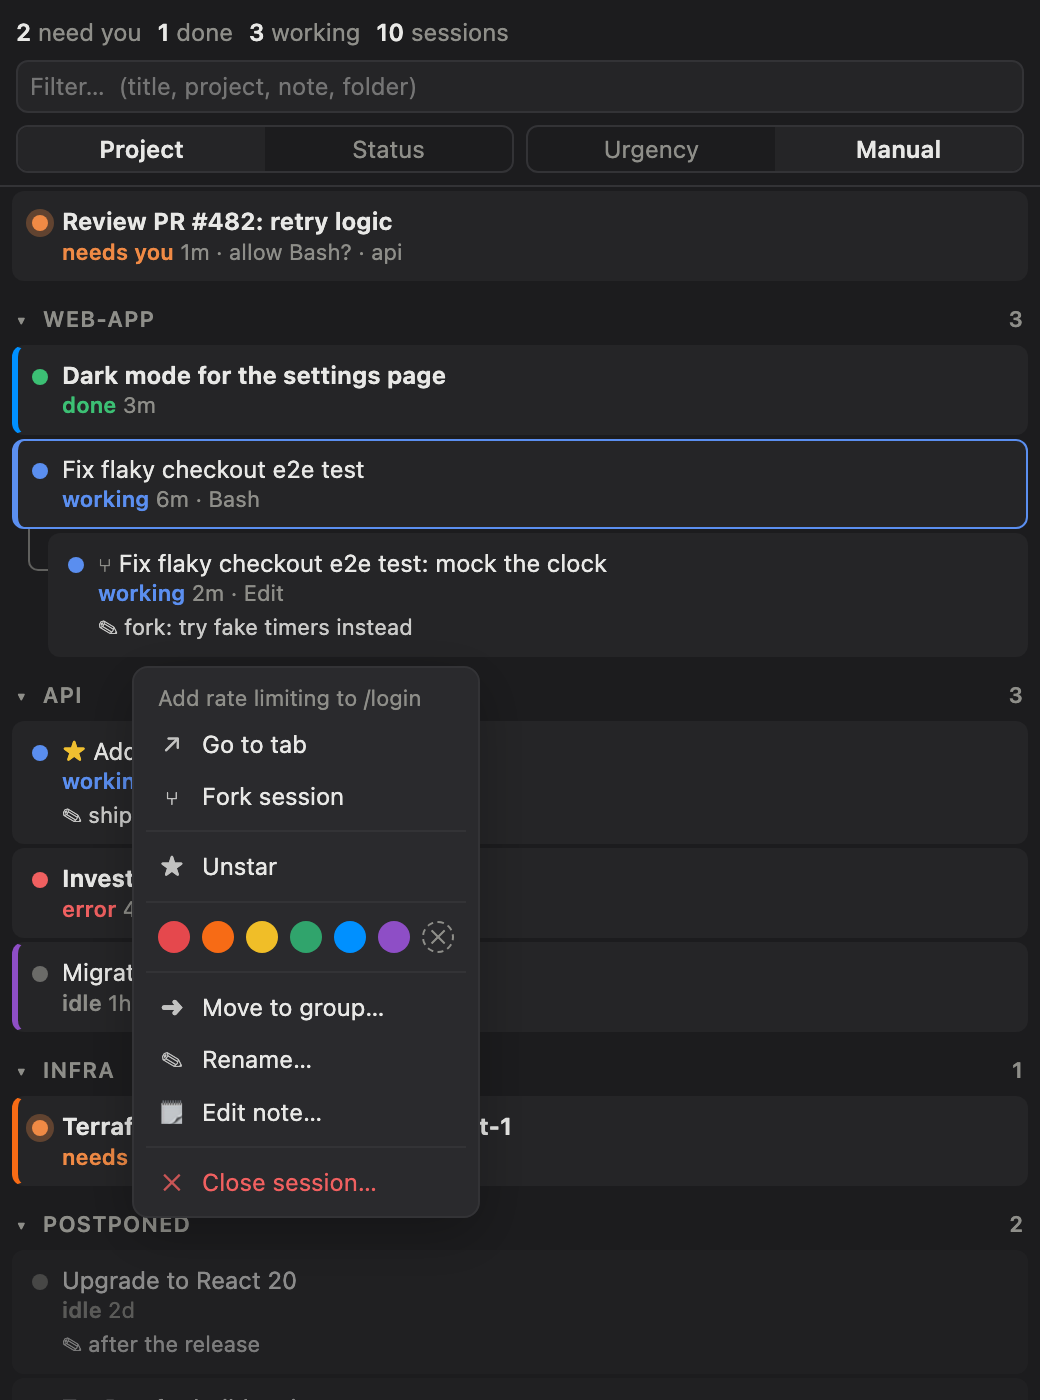
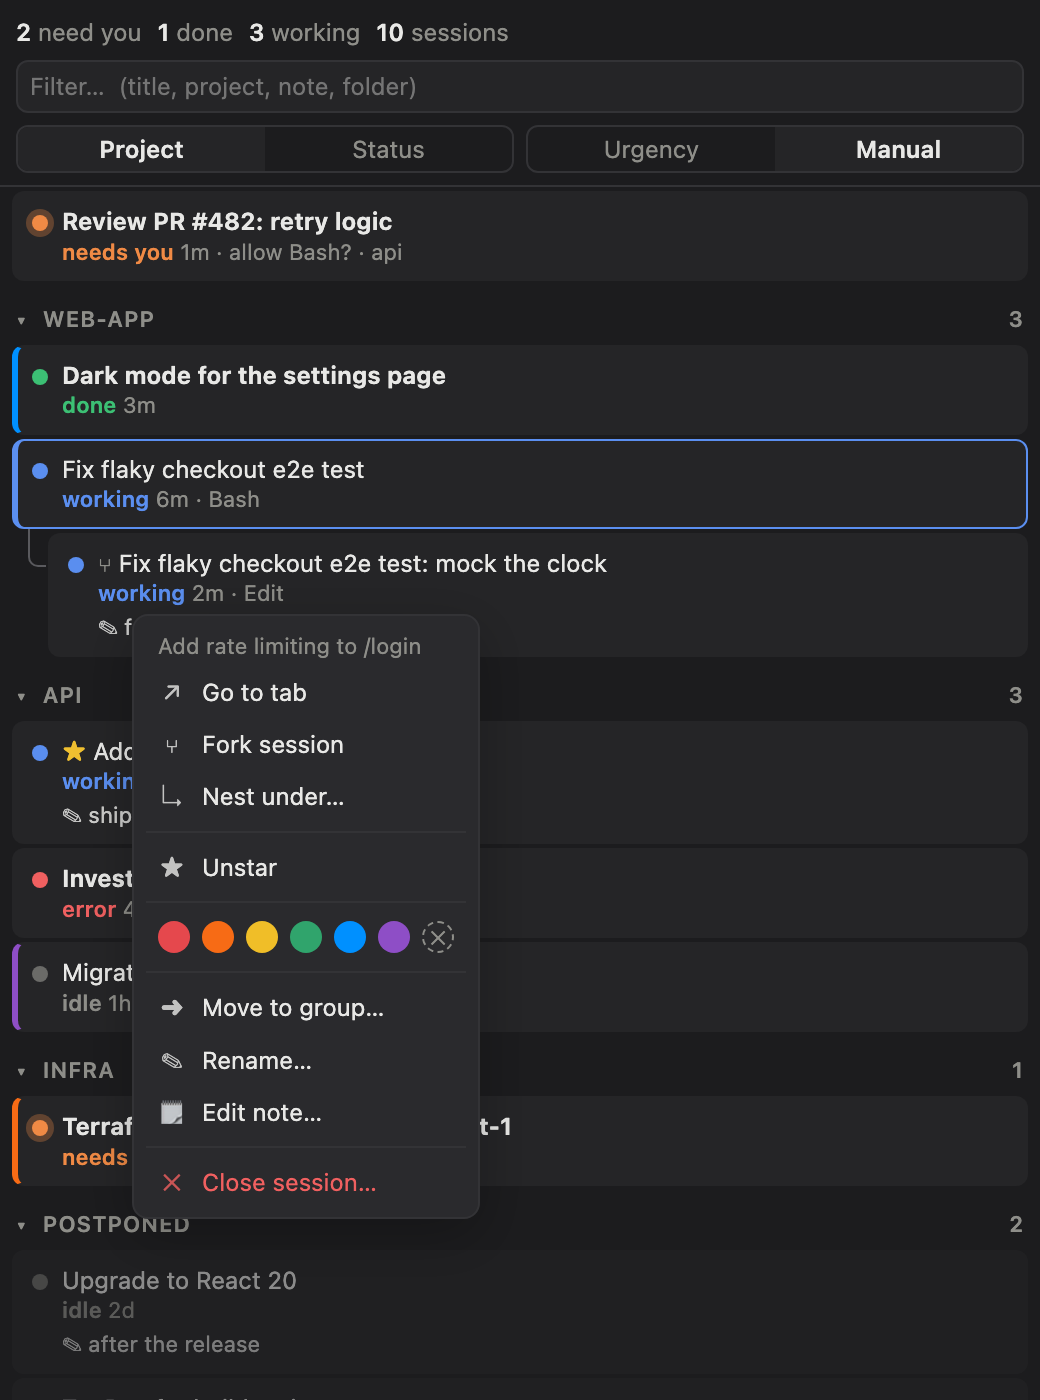
Draw forks as a tree and let cards be nested under another card
Fork connectors were separate elbows per card, so the second fork looked
hung off the first. Each fork now draws its part of a real tree: the
parent's line runs on through the gaps (├ for forks, └ for the last one)
and past deeper forks.

Drag a card onto the middle of another card, or right-click → Nest under…,
to nest it there; drop it between forks to make it a fork of the same
parent, or in the indent to the left to make it a regular card. One place
operation sets or clears the parent, records the parent's Claude session
id (so the link survives reopening), puts the card in the parent's group,
refuses loops, and moves a card's forks along with it.

diff --git a/claude_tabs.py b/claude_tabs.py
@@ -355,6 +355,18 @@ def live_session_for(csid):
     return None
 
 
+def is_descendant(sessions, sid, ancestor):
+    """True if sid sits (at any depth) under ancestor in the fork hierarchy."""
+    seen = set()
+    p = (sessions.get(sid) or {}).get("parent")
+    while p and p not in seen:
+        if p == ancestor:
+            return True
+        seen.add(p)
+        p = (sessions.get(p) or {}).get("parent")
+    return False
+
+
 def remember_closed(sid, st, m, reason):
     """Record a session for the Recently closed list (same format the hook writes)."""
     csid = st.get("claude_sid")
@@ -598,14 +610,44 @@ async def act(req):
                 return {"ok": False, "error": "bad key"}
     elif op == "place":
         sid = req.get("id", "")
+        parent = req.get("parent") or ""
+        if parent and (parent == sid or not os.path.exists(os.path.join(STATE_DIR, parent + ".json"))
+                       or is_descendant(sessions, parent, sid)):
+            return {"ok": False, "error": "can't nest a session under itself or its own fork"}
         m = sessions.setdefault(sid, {})
-        m.pop("parent", None)  # dragging a fork somewhere makes it a regular tab
-        m.pop("parent_csid", None)
         if req.get("post"):
             m["postponed"] = True
         else:
             m.pop("postponed", None)
             set_project(m, req.get("group"))
+        if parent:
+            # Nested under a card: it follows that card's group and Postponed state,
+            # and keeps the link by Claude session id like a real fork.
+            pm = sessions.get(parent, {})
+            m["parent"] = parent
+            pc = (load_json(os.path.join(STATE_DIR, parent + ".json"), {}) or {}).get("claude_sid")
+            if pc:
+                m["parent_csid"] = pc
+            else:
+                m.pop("parent_csid", None)
+            set_project(m, pm.get("project"))
+            if pm.get("postponed"):
+                m["postponed"] = True
+            else:
+                m.pop("postponed", None)
+        else:
+            m.pop("parent", None)  # dropped at top level: a regular card
+            m.pop("parent_csid", None)
+        for other, om in sessions.items():  # its forks (any depth) move with it
+            if other != sid and is_descendant(sessions, other, sid):
+                if m.get("project"):
+                    om["project"] = m["project"]
+                else:
+                    om.pop("project", None)
+                if m.get("postponed"):
+                    om["postponed"] = True
+                else:
+                    om.pop("postponed", None)
         for i, other in enumerate(req.get("ids", [])):
             sessions.setdefault(other, {})["order"] = i
             touched.add(other)
@@ -712,10 +754,10 @@ async def main(connection):
 PAGE = r"""<!doctype html>
 <html><head><meta charset="utf-8"><meta name="viewport" content="width=device-width">
 <style>
-:root{--bg:#f6f6f4;--fg:#1d1d1b;--mute:#76766f;--line:#e2e1dc;--row:#fff;--hover:#efeee9;--menu:#fff;
+:root{--bg:#f6f6f4;--fg:#1d1d1b;--mute:#76766f;--guide:#b9b8b1;--line:#e2e1dc;--row:#fff;--hover:#efeee9;--menu:#fff;
  --act:#2f6fdb;--wait:#e0702a;--done:#1f9d55;--work:#2f6fdb;--err:#d23c3c;--idle:#a6a59e;--star:#d9a300;
  --c-red:#e5484d;--c-orange:#f76b15;--c-yellow:#f0be28;--c-green:#30a46c;--c-blue:#0090ff;--c-purple:#8e4ec6}
-@media (prefers-color-scheme:dark){:root{--bg:#1c1c1e;--fg:#e8e8e6;--mute:#8e8e89;--line:#333336;--menu:#2a2a2d;
+@media (prefers-color-scheme:dark){:root{--bg:#1c1c1e;--fg:#e8e8e6;--mute:#8e8e89;--guide:#5a5a5e;--line:#333336;--menu:#2a2a2d;
  --row:#252527;--hover:#2f2f32;--act:#5b8ff0;--wait:#f08a45;--done:#3cc074;--work:#5b8ff0;--err:#f06060;--idle:#6b6b68;--star:#f0c030}}
 *{box-sizing:border-box}
 body{margin:0;background:var(--bg);color:var(--fg);font:12px/1.35 -apple-system,BlinkMacSystemFont,sans-serif;
@@ -766,8 +808,14 @@ input:focus{border-color:var(--act)}
 .row.child[data-depth="1"]{margin-left:24px}
 .row.child[data-depth="2"]{margin-left:42px}
 .row.child[data-depth="3"]{margin-left:60px}
-.row.child::before{content:"";position:absolute;left:-13px;top:-3px;width:9px;height:20px;
- border-left:1px solid var(--mute);border-bottom:1px solid var(--mute);border-bottom-left-radius:5px;opacity:.6}
+/* fork tree: │ runs through the 2px gaps between cards (-3px = gap + border) */
+.tg{position:absolute;pointer-events:none;border:0 solid var(--guide)}
+.tg.v{top:-3px;bottom:-3px;width:0;border-left-width:1px}
+.tg.h{top:15px;width:9px;height:0;border-top-width:1px}
+.tg.e{top:-3px;height:19px;width:9px;border-left-width:1px;border-bottom-width:1px;border-bottom-left-radius:5px}
+.row.ghost{margin:0!important}
+.ghost .tg{display:none}
+.row.into{outline:2px dashed var(--act);outline-offset:1px}
 .btns{position:absolute;right:4px;top:4px;display:none;gap:1px;background:var(--hover);border-radius:5px}
 .row:hover .btns{display:flex}
 .ghost .btns{display:none!important}
@@ -875,10 +923,20 @@ function nest(rows){
  const ids=new Set(rows.map(r=>r.id)),kids={},out=[],seen=new Set();
  const hasParent=r=>r.parent&&r.parent!==r.id&&ids.has(r.parent);
  rows.forEach(r=>{if(hasParent(r))(kids[r.parent]=kids[r.parent]||[]).push(r)});
- const walk=(r,d)=>{if(seen.has(r.id))return;seen.add(r.id);r.depth=d;out.push(r);(kids[r.id]||[]).forEach(k=>walk(k,d+1))};
- rows.forEach(r=>{if(!hasParent(r))walk(r,0)});
- rows.forEach(r=>walk(r,0));  // anything left (parent cycles) at top level
+ // guides: one entry per level for drawing the tree; 'mid' ├, 'end' └, 'pipe' │, '' nothing
+ const walk=(r,d,pre,last)=>{if(seen.has(r.id))return;seen.add(r.id);r.depth=d;
+  r.guides=d?[...pre,last?'end':'mid']:[];out.push(r);
+  const ks=(kids[r.id]||[]).filter(k=>!seen.has(k.id)),next=d?[...pre,last?'':'pipe']:[];
+  ks.forEach((k,i)=>walk(k,d+1,next,i===ks.length-1))};
+ rows.forEach(r=>{if(!hasParent(r))walk(r,0,[],true)});
+ rows.forEach(r=>walk(r,0,[],true));  // anything left (parent cycles) at top level
  return out}
+function guidesHtml(r){
+ const gs=(r.guides||[]).slice(-3);
+ return gs.map((g,i)=>{const x=`left:${-13-18*(gs.length-1-i)}px`;
+  return g==='pipe'?`<span class="tg v" style="${x}"></span>`
+   :g==='mid'?`<span class="tg v" style="${x}"></span><span class="tg h" style="${x}"></span>`
+   :g==='end'?`<span class="tg e" style="${x}"></span>`:''}).join('')}
 function closedHtml(){
  const cs=(D.closed||[]).filter(c=>!q||[c.title,c.project,c.cwd,c.prompt].join('\n').toLowerCase().includes(q));
  if(!cs.length)return '';
@@ -913,7 +971,7 @@ function rowHtml(r,g){
  const par=r.parent&&byId(r.parent), dep=Math.min(r.depth||0,3);
  return `<div class="row ${r.state} ${r.unread?'unread':''} ${r.active?'active':''} ${r.postponed?'post':''} ${dep?'child':''}" ${cl}
  ${dep?`data-depth="${dep}"`:''}
- data-id="${r.id}" data-g="${esc(g)}" title="${esc(tip)}"><span class="dot"></span>
+ data-id="${r.id}" data-g="${esc(g)}" title="${esc(tip)}">${dep?guidesHtml(r):''}<span class="dot"></span>
  <div class="t">${dep?`<span class="fk" title="Fork of ${esc(par?par.title:'')}">⑂</span> `:''}${r.star?'<span class="star">★</span> ':''}${esc(r.title)}${r.rename_pending?' <span class="rp" title="Claude takes this name with your next prompt in this tab">↻</span>':''}</div><div class="m">${meta.join(' · ')}</div>
  ${r.note?`<div class="note">✎ ${esc(r.note)}</div>`:''}
  <div class="btns"><button data-op="star" class="${r.star?'on':''}" title="Star">★</button>
@@ -966,7 +1024,7 @@ function rowMenu(id,x,y){
  const sw=`<div class="sw">${COLORS.map(c=>`<span data-a="color" data-v="${c}" class="${r.color===c?'cur':''}" style="background:var(--c-${c})"></span>`).join('')}
   <span data-a="color" data-v="" class="none ${r.color?'':'cur'}" title="No colour">✕</span></div>`;
  openMenu(x,y,`<div class="mh">${esc(r.title)}</div>`+
-  mi('focus','↗','Go to tab')+(r.can_fork?mi('fork','⑂','Fork session'):'')+(r.parent?mi('detach','⇤','Make regular tab'):'')+
+  mi('focus','↗','Go to tab')+(r.can_fork?mi('fork','⑂','Fork session'):'')+mi('nest','↳','Nest under…')+(r.parent?mi('detach','⇤','Make regular tab'):'')+
   '<div class="sep"></div>'+mi('star','★',r.star?'Unstar':'Star')+
   '<div class="sep"></div>'+sw+'<div class="sep"></div>'+
   mi('move','➜','Move to group…')+mi('title','✎','Rename…')+mi('note','🗒',r.note?'Edit note…':'Add note…')+
@@ -974,6 +1032,7 @@ function rowMenu(id,x,y){
  (a,v)=>{
   if(a==='color'){closeMenu();setKey([id],'color',v);return}
   if(a==='move'){moveMenu([id],x,y);return}
+  if(a==='nest'){nestMenu(id,x,y);return}
   closeMenu();
   if(a==='focus')send({op:'focus',id});
   else if(a==='fork')send({op:'fork',id});
@@ -995,6 +1054,21 @@ function confirmClose(r){
  dlg.onkeydown=e=>{if(e.key==='Escape')done(false)}}
 
 function groupNames(extra){const s=new Set([...D.groups,...D.rows.map(r=>r.project),extra].filter(Boolean));return [...s].sort((a,b)=>a.localeCompare(b))}
+// Is a (at any depth) a fork of anc?
+function isDesc(a,anc){const seen=new Set();let r=byId(a);
+ while(r&&r.parent&&!seen.has(r.id)){if(r.parent===anc)return true;seen.add(r.id);r=byId(r.parent)}return false}
+const groupKey=r=>r.postponed?POST:(r.project||TOP);
+// Place id under parent (or at top level when parent is ''), right after the parent's family.
+function nestUnder(id,parent){
+ const p=byId(parent),g=groupKey(p),ids=(layout[g]||[]).filter(x=>x!==id);
+ let i=ids.indexOf(parent)+1;while(i<ids.length&&isDesc(ids[i],parent))i++;
+ ids.splice(i,0,id);
+ send(g===POST?{op:'place',id,post:true,parent,ids}:{op:'place',id,post:false,group:g===TOP?'':g,parent,ids})}
+function nestMenu(id,x,y){
+ const cands=D.rows.filter(c=>c.id!==id&&!isDesc(c.id,id)).sort((a,b)=>a.title.localeCompare(b.title));
+ if(!cands.length){closeMenu();return}
+ openMenu(x,y,`<div class="mh">Nest under…</div>`+cands.map(c=>mi('p','⑂',c.title+(c.project?'  ·  '+c.project:''),c.id,byId(id).parent===c.id)).join(''),
+  (a,v)=>{closeMenu();if(a==='p')nestUnder(id,v)})}
 function moveMenu(ids,x,y){
  const r=byId(ids[0]);
  openMenu(x,y,`<div class="mh">Move to group</div>`+groupNames(r&&r.auto_project).map(n=>mi('g','',n,n,r&&r.project===n)).join('')+
@@ -1095,7 +1169,7 @@ addEventListener('pointerup',e=>{
  if(!drag)return;const d=drag;
  if(d.on){if(d.kind==='group')finishGroupDrag();else finishDrag();dragEnded=Date.now()}
  else if(!d.moved&&d.kind==='row'){drag=null;send({op:'focus',id:d.id});return}
- drag=null;$('#ins').style.display='none';document.querySelectorAll('.drop').forEach(x=>x.classList.remove('drop'))});
+ drag=null;$('#ins').style.display='none';document.querySelectorAll('.drop,.into').forEach(x=>x.classList.remove('drop','into'))});
 
 /* group drag: headers move whole groups; drop position is decided by group blocks */
 const sel=g=>`[data-g="${CSS.escape(g)}"]`;
@@ -1138,26 +1212,40 @@ function startDrag(e){
  document.body.appendChild(gh);drag.ghost=gh;row.classList.add('dragging')}
 function moveDrag(e){
  drag.ghost.style.top=(e.clientY-drag.dy)+'px';
- const ins=$('#ins');document.querySelectorAll('.drop').forEach(x=>x.classList.remove('drop'));
+ const ins=$('#ins');document.querySelectorAll('.drop,.into').forEach(x=>x.classList.remove('drop','into'));
  const hb=document.querySelector('header').getBoundingClientRect().bottom;
  if(e.clientY<hb+24)scrollBy(0,-10);else if(e.clientY>innerHeight-24)scrollBy(0,10);
- const el=document.elementFromPoint(e.clientX,e.clientY);const t=el&&el.closest('.row:not(.dragging),.grp,.zone');
+ const el=document.elementFromPoint(e.clientX,e.clientY);let t=el&&el.closest('.row:not(.dragging),.grp,.zone');
+ if(!t)  // in the indent left of a card (or the margin): use the card at this height
+  t=[...document.querySelectorAll('#list .row:not(.dragging)')].find(x=>{const b=x.getBoundingClientRect();return e.clientY>=b.top-2&&e.clientY<=b.bottom+2});
  if(!t){return}
  const g=t.dataset.g;
  if(view!=='project'&&g!==POST){ins.style.display='none';drag.target=null;return}
  if(!t.classList.contains('row')){t.classList.add('drop');ins.style.display='none';drag.target={g,index:0};return}
- const rc=t.getBoundingClientRect(),before=e.clientY<rc.top+rc.height/2;
- ins.style.display='block';ins.style.left=(rc.left+4)+'px';ins.style.width=(rc.width-8)+'px';
+ const rc=t.getBoundingClientRect(),tr=byId(t.dataset.id),y=e.clientY,band=rc.height*0.3;
+ const ids=(layout[g]||[]).filter(x=>x!==drag.id);
+ if(tr&&y>rc.top+band&&y<rc.bottom-band&&!isDesc(tr.id,drag.id)){
+  // middle of a card: becomes its fork, placed after its existing forks
+  t.classList.add('into');ins.style.display='none';
+  let i=ids.indexOf(tr.id)+1;while(i<ids.length&&isDesc(ids[i],tr.id))i++;
+  drag.target={g,index:i,parent:tr.id};return}
+ const before=y<rc.top+rc.height/2;
+ // next to a fork, over its card: a sibling under the same parent; in the left gutter: top level
+ let parent=(tr&&tr.depth&&e.clientX>=rc.left)?tr.parent:'';
+ if(parent&&(parent===drag.id||isDesc(parent,drag.id)))parent='';
+ const lb=$('#list').getBoundingClientRect().left+6,left=parent?rc.left:lb;
+ ins.style.display='block';ins.style.left=(left+4)+'px';ins.style.width=(rc.right-left-8)+'px';
  ins.style.top=(before?rc.top-3:rc.bottom+1)+'px';
- const ids=(layout[g]||[]).filter(x=>x!==drag.id);let i=ids.indexOf(t.dataset.id);if(!before)i++;
- drag.target={g,index:i}}
+ let i=ids.indexOf(t.dataset.id);if(!before)i++;
+ drag.target={g,index:i,parent}}
 function finishDrag(){
  drag.ghost.remove();const t=drag.target;if(!t){render(true);return}
  const ids=(layout[t.g]||[]).filter(x=>x!==drag.id);ids.splice(t.index,0,drag.id);
  if(t.g===drag.from&&sort!=='manual')setSort('manual');
  if(t.g===POST&&fold[POST]){fold[POST]=false;store('fold',fold)}
  const id=drag.id;drag=null;
- send(t.g===POST?{op:'place',id,post:true,ids}:{op:'place',id,post:false,group:t.g===TOP?'':t.g,ids})}
+ const parent=t.parent||'';
+ send(t.g===POST?{op:'place',id,post:true,parent,ids}:{op:'place',id,post:false,group:t.g===TOP?'':t.g,parent,ids})}
 
 render(true);poll();setInterval(poll,1000);
 </script></body></html>"""

diff --git a/README.md b/README.md
@@ -33,7 +33,7 @@ If you run Claude Code in many tabs at once (some working, some waiting for an a
 - **Marks:** star a session, give it a colour (the real iTerm2 tab gets the same colour), attach a note.
 - **Titles stay in sync with Claude.** Rows show the session's own title, so a `/rename` inside Claude shows up in the panel within a second. Renaming a row in the panel renames the Claude session too (saved like `/rename`); Claude takes the new name with your next prompt in that tab, marked ↻ until then.
 - **Postponed:** drag sessions you'll come back to into a folded section at the bottom. It opens by itself when you switch to one of its tabs.
-- **Fork session:** right-click → *Fork session* opens `claude -r <id> --fork-session` in a new tab right next to the original, in the same folder. No more `/status` and copy-pasting IDs.
+- **Fork session:** right-click → *Fork session* opens `claude -r <id> --fork-session` in a new tab right next to the original, in the same folder. No more `/status` and copy-pasting IDs. Forks are drawn as a tree under their original; drag a card onto another card (or right-click → *Nest under…*) to nest it there, and *Make regular tab* to undo.
 - **Recently closed:** every session you closed in the last 7 days; click one to resume it in a new tab with its group, colour and note. A reopened fork goes back under its parent if the parent is still open.
 - **Filter box** across titles, groups, notes, folders and last prompts.
 - **Same view in every window:** groups, order, marks and view settings are shared by the panels of all iTerm2 windows.
@@ -67,8 +67,10 @@ To update later: `git pull && ./install.sh`.
 |---|---|
 | Click a row | jump to that tab |
 | Hover a row | see its folder, window/tab and last prompt; ★ and ⋯ buttons appear |
-| Right-click a row (or ⋯) | fork, star, colour, move to group, rename, add a note, close |
+| Right-click a row (or ⋯) | fork, nest under another session, star, colour, move to group, rename, add a note, close |
 | Drag a row | move it into another group, into Postponed, or to the top (no group) |
+| Drag a row onto the middle of another card | nest it under that card, like a fork (the card is outlined) |
+| Drag a row between forks | make it a fork of the same parent; drop it in the indent to the left to make it a regular card |
 | Drag a group header | reorder groups |
 | Right-click a group header | move up/down, sort A–Z, rename, ungroup all, postpone all, delete |
 | Right-click empty space | create a new group |
